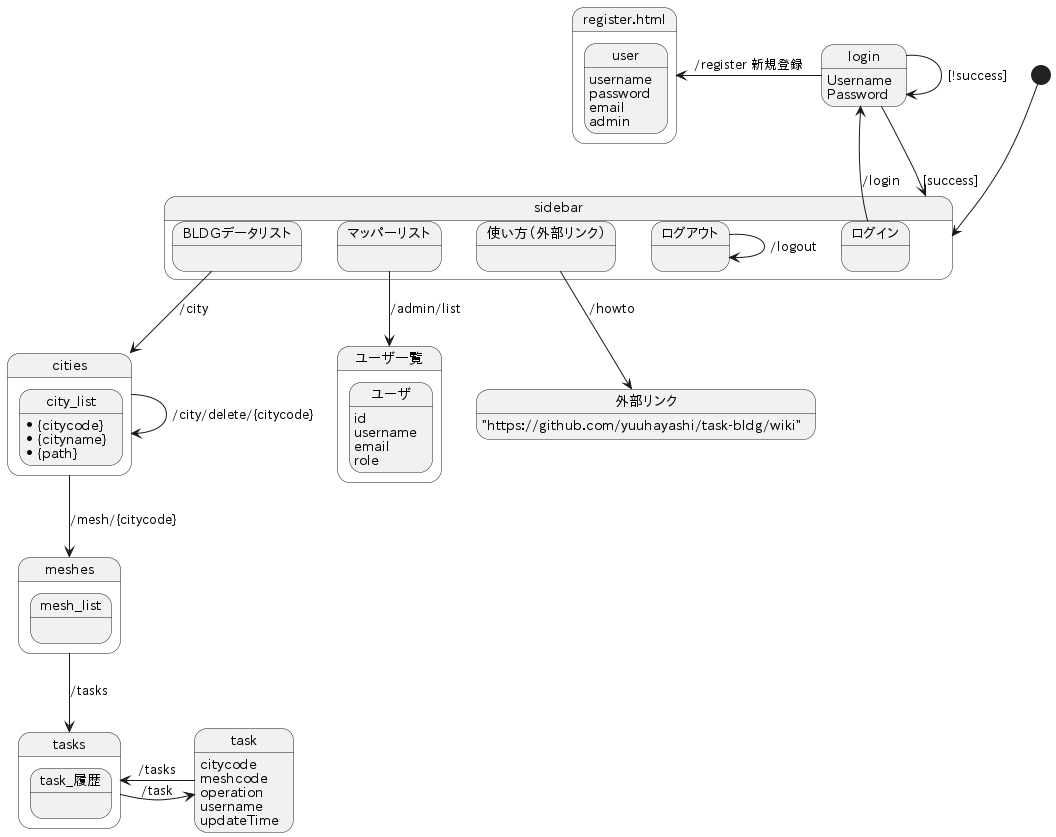
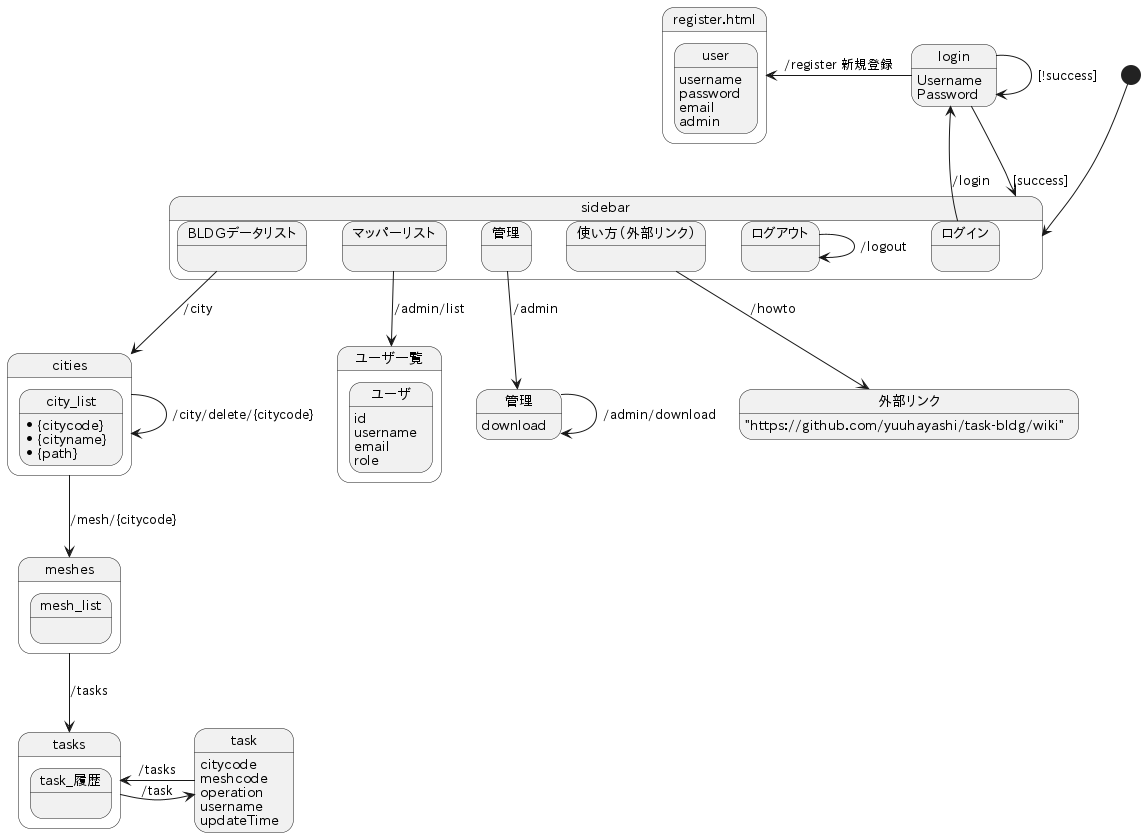
"/admin/download"

diff --git a/src/main/resources/templates/admin.html b/src/main/resources/templates/admin.html
@@ -1,0 +1,56 @@
+<!DOCTYPE html>
+<html xmlns:th="http://www.thymeleaf.org"
+  xmlns:layout="http://www.ultraq.net.nz/thymeleaf/layout"
+  layout:decorate="~{layout/layout}">
+<head>
+  <meta charset="UTF-8" th:remove="tag" />
+</head>
+<body>
+
+  <!-- サイドバーの表示 -->
+  <div layout:fragment="sidebar" th:replace="~{fragments/sidebar :: sidebar}">
+  </div>
+
+  <!-- コンテンツの表示 -->
+  <div layout:fragment="content">
+    <main class="offcanvas-outside bg-light">
+      <div class="container-fluid">
+
+        <!-- トグルボタン -->
+        <div th:replace="~{fragments/sidebar :: toggler}">
+        </div>
+
+        <div class="row">
+          <div class="col">
+
+            <div class="card shadow">
+              <div class="card-header">
+                <h6 class="text-navy my-2" th:text="${command}"></h6>
+              </div>
+              <div class="card-body">
+
+                <form th:action="@{/admin/download}" method="post" novalidate>
+                  <div class="mb-3">
+                    <label for="username" class="form-label">
+                      データダウンロード
+                    </label>
+                  </div>
+
+                  <p class="error_red" th:text="${error}"></p>
+                  <p class="error_red" th:text="${message}"></p>
+
+                  <button class="btn btn-navy col-4">
+                    <i class="bi bi-pencil-square">データダウンロード</i>
+                  </button>
+
+                </form>
+              </div>
+            </div>
+
+          </div>
+        </div>
+      </div>
+    </main>
+  </div>
+</body>
+</html>

diff --git a/src/main/resources/templates/fragments/sidebar.html b/src/main/resources/templates/fragments/sidebar.html
@@ -55,6 +55,12 @@
               </a>
             </li>
             <li class="nav-item">
+              <a th:href="@{/admin}" class="nav-link text-white">
+                <i class="bi bi-table me-2"></i>
+                管理
+              </a>
+            </li>
+            <li class="nav-item">
               <a href="https://github.com/yuuhayashi/task-bldg/wiki" class="nav-link text-white">
                 <i class="bi bi-box-arrow-right me-2"></i>
                 使い方 (外部リンク)

diff --git a/src/main/java/osm/surveyor/task/city/TaskController.java b/src/main/java/osm/surveyor/task/city/TaskController.java
@@ -1,7 +1,11 @@
 package osm.surveyor.task.city;
 
+import java.io.IOException;
+import java.io.OutputStream;
 import java.util.List;
 import java.util.UUID;
+
+import javax.servlet.http.HttpServletResponse;
 
 import org.springframework.beans.factory.annotation.Autowired;
 import org.springframework.http.HttpStatus;
@@ -175,6 +179,44 @@ public class TaskController {
 		
 		return "redirect:/tasks?citycode="+ task.getCitycode() +"&meshcode="+ task.getMeshcode();
 	}
+	
+	@GetMapping("/admin")
+	public String admin()
+	{
+		return "admin";
+	}
+
+	@PostMapping("/admin/download")
+    public String download(HttpServletResponse response) {
+        try (OutputStream os = response.getOutputStream();) {
+        	List<Task> list = taskRepository.findAll();
+        	StringBuffer sb = new StringBuffer();
+    		boolean c1 = false;
+        	sb.append("[");
+        	sb.append(System.lineSeparator());
+        	for (Task task : list) {
+    			if (c1) {
+    				sb.append(",");
+    			}
+    			else {
+    				c1 = true;
+    			}
+        		sb.append(task.toString());
+            	sb.append(System.lineSeparator());
+        	}
+        	sb.append("]");
+            byte[] fb1 = String.valueOf(sb).getBytes();
+
+            response.setContentType("application/octet-stream");
+            response.setHeader("Content-Disposition", "attachment; filename="+ "task-bldg.json");
+            response.setContentLength(fb1.length);
+            os.write(fb1);
+            os.flush();
+        } catch (IOException e) {
+            e.printStackTrace();
+        }
+        return null;
+    }
 	
 	/**
 	 * 400 Bad Request

diff --git a/src/main/java/osm/surveyor/task/city/model/Task.java b/src/main/java/osm/surveyor/task/city/model/Task.java
@@ -14,13 +14,16 @@ import javax.validation.constraints.NotBlank;
 
 import org.springframework.format.annotation.NumberFormat;
 
+import com.fasterxml.jackson.databind.JsonNode;
+
 import lombok.Getter;
 import lombok.Setter;
+import osm.surveyor.task.util.JsonTemple;
 
 @Getter
 @Setter
 @Entity
-public class Task {
+public class Task extends JsonTemple {
 	
     @Id
     @Column(name = "current_id")
@@ -78,4 +81,29 @@ public class Task {
 	 */
 	@Temporal(TemporalType.TIMESTAMP)
     Date updateTime;
+	
+	@Override
+	public String toString() {
+		StringBuffer sb = new StringBuffer();
+		boolean c1 = false;
+		sb.append("{");
+		c1 = outStr(c1, sb, "currentId", this.getCurrentId());
+		c1 = outStr(c1, sb, "preId", this.getPreId());
+		c1 = outStr(c1, sb, "citycode", this.getCitycode());
+		c1 = outStr(c1, sb, "meshcode", this.getMeshcode());
+		c1 = outStr(c1, sb, "status", this.getStatus().toString());
+		c1 = outStr(c1, sb, "username", this.getUsername());
+		c1 = outStr(c1, sb, "validator", this.getValidator());
+		c1 = outStr(c1, sb, "changeSet", this.getChangeSet());
+		c1 = outStr(c1, sb, "comment", this.getComment());
+		c1 = outStr(c1, sb, "operation", this.getOperation().toString());
+		c1 = outStr(c1, sb, "updateTime", this.getUpdateTime().toString());
+		sb.append("}");
+		return sb.toString();
+	}
+	
+	@Override
+	public void parse(JsonNode node) {
+		// TODO
+	}
 }

diff --git a/src/main/java/osm/surveyor/task/city/TaskService.java b/src/main/java/osm/surveyor/task/city/TaskService.java
@@ -165,5 +165,4 @@ public class TaskService {
 	public List<Task> getTasks() {
 		return repository.findAll();
 	}
-
 }
